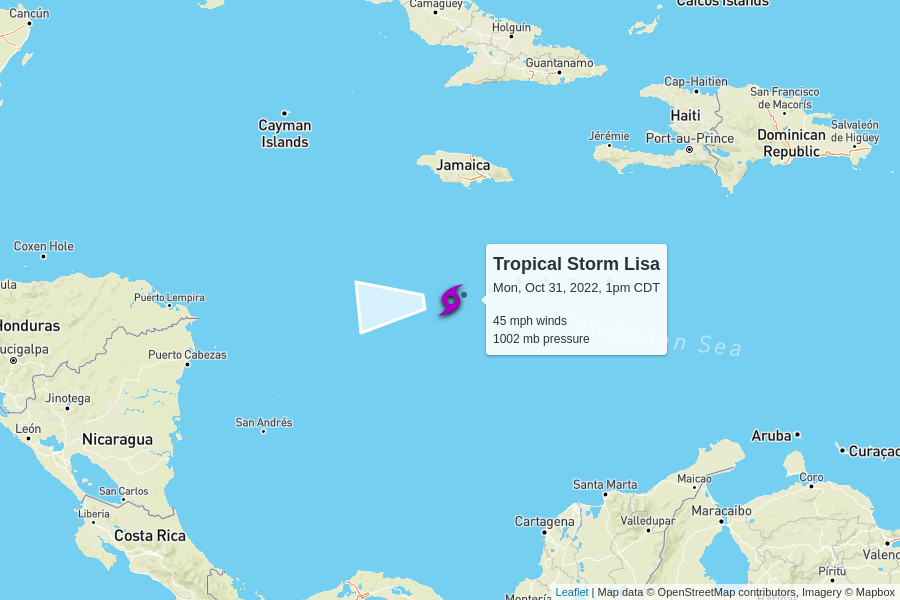
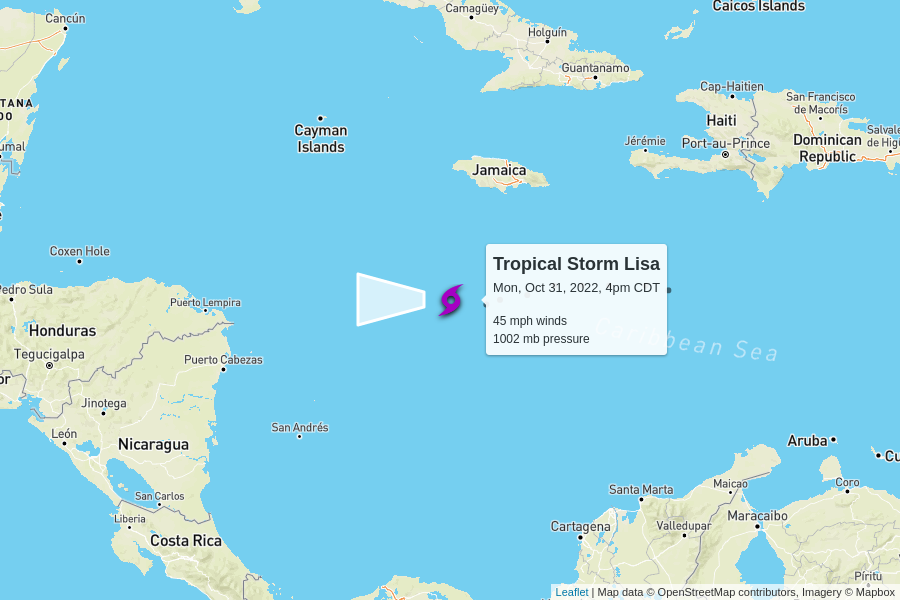
automatic update

diff --git a/docs/index.html b/docs/index.html
@@ -100,7 +100,7 @@
         <td colspan="6" class="storm category-0" >
           <h2>
             Tropical Storm Lisa
-            <p class="updated">last updated <span data-time>2022-10-31T18:00:00.000Z</span></p>
+            <p class="updated">last updated <span data-time>2022-10-31T21:00:00.000Z</span></p>
           </h2>
         </td>
       </tr>
@@ -120,7 +120,7 @@
         <td>
           14 mph to the west
           <br/>
-          <span style="display: inline-block; font-size: 1.5em; transform: rotate(265deg);">↑</span>
+          <span style="display: inline-block; font-size: 1.5em; transform: rotate(270deg);">↑</span>
         </td>
         <td><a href="https://raw.githubusercontent.com/mgwalker/atlantic-hurricanes/main/data/csv/AL152022.csv">AL152022.csv</a></td>
         <td><a href="https://www.nhc.noaa.gov/archive/2022/LISA.shtml?">NHC advisories</a></td>
